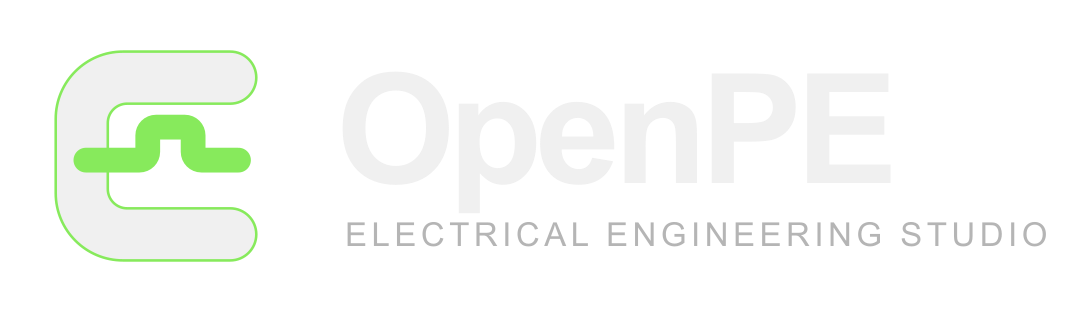
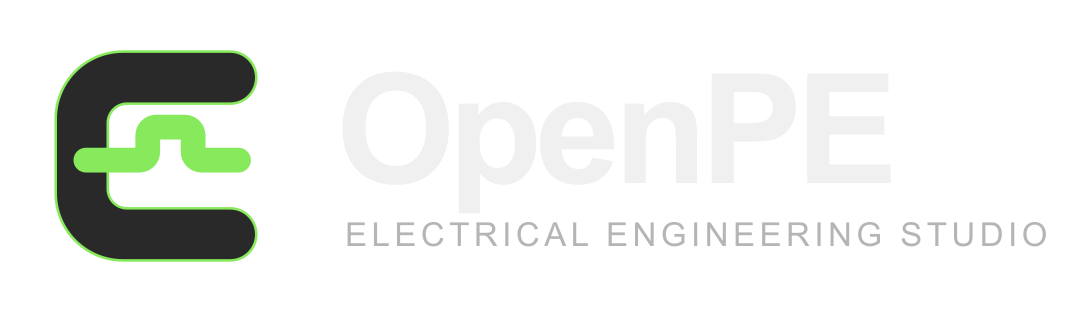
Keep the charcoal mark in the dark-background lockup

Changed region(s): [[0.0306, 0.1442, 0.2444, 0.8365]]

diff --git a/DESIGN.md b/DESIGN.md
@@ -86,7 +86,7 @@ IME composition, including key code 229, cannot commit/discard input, save, plac
 
 `public/brand/openpe-mark.svg` is the sole transparent 64 × 64 geometry master: smooth charcoal `#292929` E, green `#87EA5C` signal and fine green outline retained on light/dark surfaces. No pixel steps, background tiles, glow, extra circuit details or copied product marks. Minimum size 16 px, preferred header about 30 px; scale uniformly with clear space.
 
-Generate assets through `node scripts/brand-assets.mjs`. Use the charcoal master with its green signal and outline in every theme, including Loading. Mono is charcoal throughout. Application surfaces use that charcoal mark. `public/brand/openpe-lockup-dark.svg` and `openpe-lockup-dark.png` are the same 360 × 104 / 1080 × 312 lockup for dark document backgrounds: the body and wordmark use dark-surface `text-strong` (`#f0f0f0`) and the tagline uses dark-surface `muted` (`#b5b5b5`), retaining the green signal and outline. PNG/ICO retain alpha; native icons use the tighter crop. Inspect native-size light/dark previews. Reference sheets are not production backgrounds; [AGENTS.md](AGENTS.md) owns asset and graphical-check requirements.
+Generate assets through `node scripts/brand-assets.mjs`. Use the charcoal master with its green signal and outline in every theme, including Loading. Mono is charcoal throughout. Application surfaces use that charcoal mark. `public/brand/openpe-lockup-dark.svg` and `openpe-lockup-dark.png` are the same 360 × 104 / 1080 × 312 lockup for dark document backgrounds: the mark stays the charcoal master with its green signal and outline, the wordmark uses dark-surface `text-strong` (`#f0f0f0`) and the tagline uses dark-surface `muted` (`#b5b5b5`). PNG/ICO retain alpha; native icons use the tighter crop. Inspect native-size light/dark previews. Reference sheets are not production backgrounds; [AGENTS.md](AGENTS.md) owns asset and graphical-check requirements.
 
 Workspace startup and editor-mode, comparison, dialog and model/PDF preview loading use the complete 80 × 80 px Signal E mark with `Loading...` centered 12 px below it in the shared small UI type and muted colour. Loading always uses the same charcoal master mark, retaining the green signal and outline in both themes. Backgrounds and captions follow the shared shell/canvas and muted theme tokens. Startup centers this group on the shell; panel loaders center it within their own available area. Model's initial scene preparation uses the same loader inside the drawing stage until its existing ready/error state resolves. The E stays still while a light highlight flows left to right along its green waveform every 1.6 seconds. The overlay mask is generated from the master's unchanged signal path and coordinate system as `public/brand/openpe-signal.svg`. Reduced motion shows the same static master logo. Keep an accessible status naming the pending view; omit spinners and simulated progress. Preserve actionable failures/retries and actual component-import/render progress after a scene becomes usable. Loading presentation adds no artificial wait or document change.
 

diff --git a/references/README.md b/references/README.md
@@ -28,7 +28,7 @@ After an intentional master change, regenerate assets from the repository root:
 node scripts/brand-assets.mjs
 ```
 
-The script writes SVG variants/lockups and transparent PNG/ICO production assets under `public/brand/` and `build/`, plus the three OpenPE preview files listed above. It does not recreate the Open Design research snapshots. Use the original charcoal Signal E mark on both light and dark application surfaces. `public/brand/openpe-lockup-dark.svg` and `openpe-lockup-dark.png` repeat that lockup for dark document backgrounds, with the body and wordmark in dark-surface text-strong (`#f0f0f0`) and the tagline in dark-surface muted (`#b5b5b5`).
+The script writes SVG variants/lockups and transparent PNG/ICO production assets under `public/brand/` and `build/`, plus the three OpenPE preview files listed above. It does not recreate the Open Design research snapshots. Use the original charcoal Signal E mark on both light and dark application surfaces. `public/brand/openpe-lockup-dark.svg` and `openpe-lockup-dark.png` repeat that lockup for dark document backgrounds, keeping the charcoal mark and setting the wordmark in dark-surface text-strong (`#f0f0f0`) and the tagline in dark-surface muted (`#b5b5b5`).
 
 The logo presentation sheet supplies its own backgrounds. Production marks retain transparency. The title preview illustrates product identity; the actual Windows caption-toolbar layout is specified in DESIGN.md and implemented in `electron/main.cjs` and the renderer.
 
